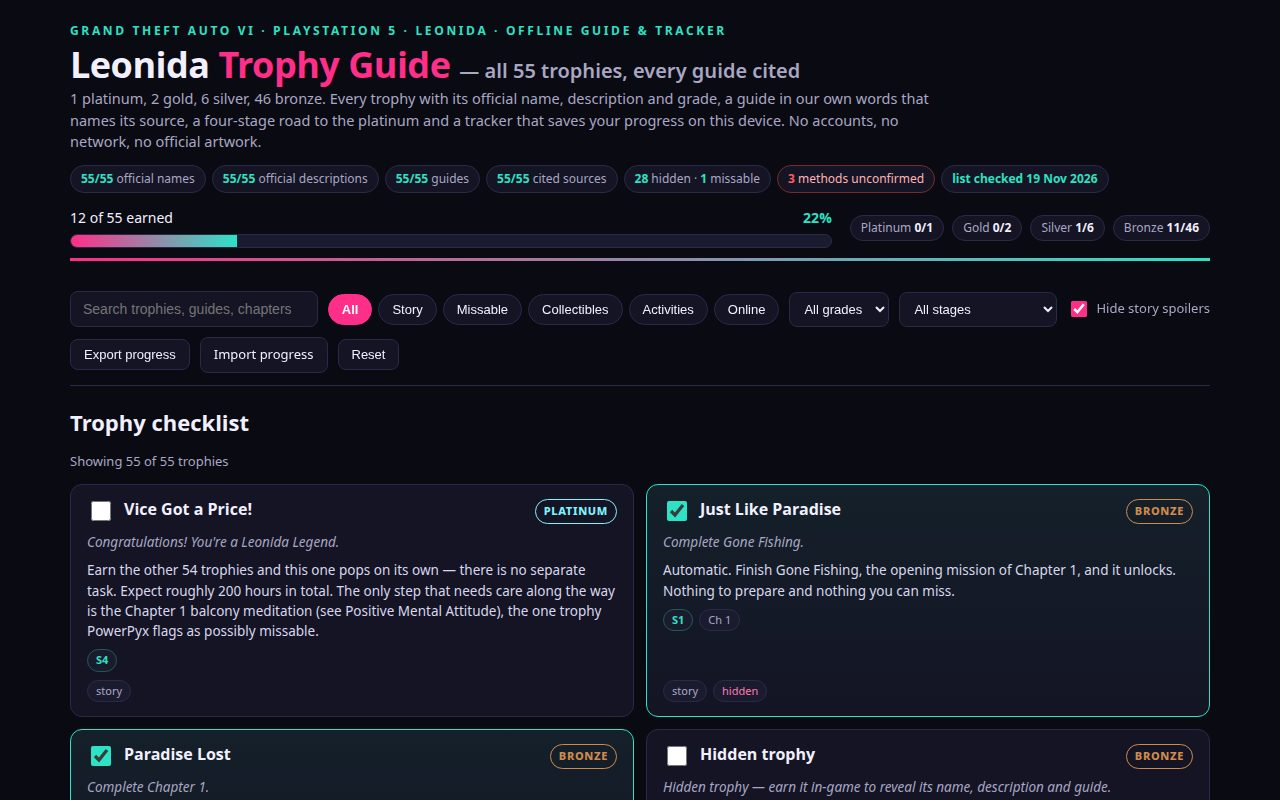
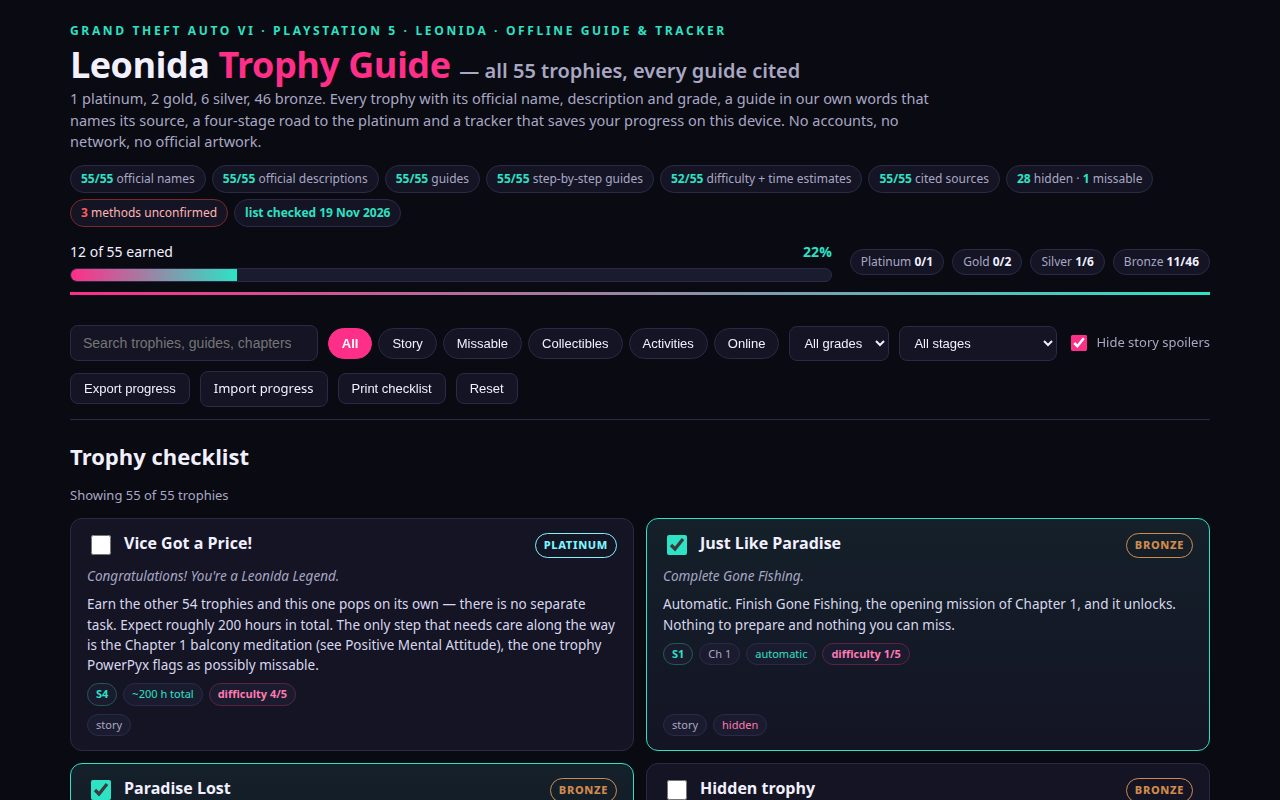
Round 3: step-by-step guides, difficulty + time estimates, 100% checklist table, ordered platinum path
- Every trophy now has numbered steps (150 total), our own difficulty
  rating (1-5) and time estimate; the 3 trophies with no confirmed
  method carry no estimate and say so plainly.
- New 100% checklist section with the exact counts (any 70 of 80
  challenges, any 200 of 277 vehicles, any 100 of 255 animals, 300
  of 397 stunts, and the five rows that need everything).
- New ordered platinum path: 8 steps covering all 55 trophies, each
  with live done/total progress.
- Print checklist button + print stylesheet; audit strip now shows
  step guides and estimates; detail modal shows steps, difficulty
  and time; search covers step text.
- trophies.json back to the one-trophy-per-line format; all 7
  counted files written in this session; 4 screenshots retaken
  in headless Chromium (1280x800, no console errors).

Changed region(s): [[0.0312, 0.1875, 0.9688, 1.0], [0.4062, 0.8438, 0.9375, 1.0]]

diff --git a/app/app.js b/app/app.js
@@ -58,7 +58,7 @@ function isConcealed(t) {
 function visibleText(t) {
   // Spoiler-concealed trophies must not leak through search.
   if (isConcealed(t)) return 'hidden trophy';
-  return `${t.name} ${t.description} ${t.guide} ${t.source} ${t.count ?? ''} ${t.chapter ?? ''}`.toLowerCase();
+  return `${t.name} ${t.description} ${t.guide} ${(t.steps ?? []).join(' ')} ${t.source} ${t.count ?? ''} ${t.chapter ?? ''} ${t.time ?? ''}`.toLowerCase();
 }
 
 function matches(t) {
@@ -87,10 +87,17 @@ function stageChip(t) {
   return `<span class="tag stage-tag" title="${esc(names[t.stage])}">S${t.stage}</span>`;
 }
 
+function difficultyLabel(t) {
+  if (t.difficulty == null) return '<span class="tag diff-tag">difficulty unknown</span>';
+  return `<span class="tag diff-tag" title="Our difficulty estimate, 1 (easy) to 5 (hardest)">difficulty ${t.difficulty}/5</span>`;
+}
+
 function factsLine(t) {
   const parts = [stageChip(t)];
   if (t.chapter) parts.push(`<span class="tag">${esc(t.chapter)}</span>`);
   if (t.count) parts.push(`<span class="tag count-tag">${esc(t.count)}</span>`);
+  if (t.time) parts.push(`<span class="tag time-tag">${esc(t.time)}</span>`);
+  parts.push(difficultyLabel(t));
   if (t.status === 'unconfirmed') parts.push('<span class="tag unconfirmed-tag">method unconfirmed</span>');
   return parts.join('');
 }
@@ -138,6 +145,8 @@ function renderAuditStrip() {
   const described = trophies.filter((t) => t.description.trim()).length;
   const guided = trophies.filter((t) => t.guide.trim()).length;
   const cited = trophies.filter((t) => t.source.trim()).length;
+  const stepped = trophies.filter((t) => Array.isArray(t.steps) && t.steps.length > 0).length;
+  const estimated = trophies.filter((t) => t.difficulty != null && t.time).length;
   const unconfirmed = trophies.filter((t) => t.status === 'unconfirmed').length;
   const missable = trophies.filter((t) => t.missable).length;
   const hidden = trophies.filter((t) => t.hidden).length;
@@ -145,6 +154,8 @@ function renderAuditStrip() {
     `<span class="audit-item"><b>${named}/55</b> official names</span>` +
     `<span class="audit-item"><b>${described}/55</b> official descriptions</span>` +
     `<span class="audit-item"><b>${guided}/55</b> guides</span>` +
+    `<span class="audit-item"><b>${stepped}/55</b> step-by-step guides</span>` +
+    `<span class="audit-item"><b>${estimated}/55</b> difficulty + time estimates</span>` +
     `<span class="audit-item"><b>${cited}/55</b> cited sources</span>` +
     `<span class="audit-item"><b>${hidden}</b> hidden · <b>${missable}</b> missable</span>` +
     `<span class="audit-item warn"><b>${unconfirmed}</b> methods unconfirmed</span>` +
@@ -162,7 +173,38 @@ const STAGE_META = {
        lede: 'When the other 54 trophies are earned, the platinum pops automatically. Before you celebrate: keep a manual save at the start of every chapter — there is no mission replay — and never turn on a cheat, because cheats disable trophies and saving.' },
 };
 
+function renderPath() {
+  const path = doc.path ?? [];
+  const host = document.getElementById('path');
+  if (!host) return;
+  host.replaceChildren(...path.map((step, i) => {
+    const done = step.trophies.filter((id) => earned.has(id)).length;
+    const el = document.createElement('li');
+    el.className = 'path-step' + (done === step.trophies.length ? ' done' : '');
+    el.innerHTML = `
+      <div class="path-num">${i + 1}</div>
+      <div class="path-body">
+        <h3>${esc(step.title)}</h3>
+        <p>${esc(step.detail)}</p>
+        <p class="path-count"><b>${done}/${step.trophies.length}</b> trophies done in this step</p>
+      </div>`;
+    return el;
+  }));
+}
+
+function renderChecklist100() {
+  const rows = doc.checklist100 ?? [];
+  const body = document.getElementById('c100-body');
+  if (!body) return;
+  body.replaceChildren(...rows.map((r) => {
+    const tr = document.createElement('tr');
+    tr.innerHTML = `<td><b>${esc(r.item)}</b></td><td class="c100-need">${esc(r.required)}</td><td>${esc(r.note)}</td>`;
+    return tr;
+  }));
+}
+
 function renderRoadmap() {
+  renderPath();
   const host = document.getElementById('stages');
   host.replaceChildren(...[1, 2, 3, 4].map((n) => {
     const meta = STAGE_META[n];
@@ -246,9 +288,14 @@ function openDetail(t) {
     `Stage ${t.stage} of the platinum roadmap`,
     t.chapter ? `unlocked in ${t.chapter}` : null,
     t.count ? `key count: ${t.count}` : null,
+    t.difficulty != null ? `difficulty ${t.difficulty}/5 (our estimate)` : 'difficulty unknown — no confirmed method yet',
+    t.time ? `about ${t.time}` : null,
     t.missable ? 'possibly missable' : 'not missable',
     t.hidden ? 'hidden on PS5 until earned' : 'visible from the start',
   ].filter(Boolean);
+  const steps = Array.isArray(t.steps) && t.steps.length > 0
+    ? `<h3 class="steps-h">How to earn it</h3><ol class="steps">${t.steps.map((s) => `<li>${esc(s)}</li>`).join('')}</ol>`
+    : '';
   modalBody.innerHTML = concealed
     ? `${badge(t)}
        <h2 id="modal-name">Hidden trophy</h2>
@@ -262,6 +309,7 @@ function openDetail(t) {
        ${t.status === 'unconfirmed' ? '<p class="warn"><b>Method unconfirmed.</b> No guide has pinned down how this trophy unlocks yet — the description is the only solid fact. Treat any method you read elsewhere as a rumour until a cited guide confirms it.</p>' : ''}
        ${t.missable ? '<p class="warn"><b>Possibly missable.</b> This is the one trophy in the set that PowerPyx flags as potentially missable — see the missable watch list. Do the Chapter 1 balcony meditation before the chapter ends.</p>' : ''}
        <p class="guide">${esc(t.guide)}</p>
+       ${steps}
        <p class="source">${citationFor(t)}</p>`;
   backdrop.hidden = false;
 }
@@ -289,6 +337,7 @@ spoilerEl.addEventListener('change', () => {
   render();
 });
 
+document.getElementById('print').addEventListener('click', () => window.print());
 document.getElementById('export').addEventListener('click', () => {
   const payload = { game: 'Grand Theft Auto VI', earned: [...earned].sort((a, b) => a - b), exportedAt: new Date().toISOString() };
   const a = document.createElement('a');
@@ -327,6 +376,7 @@ document.getElementById('reset').addEventListener('click', () => {
 
 renderAuditStrip();
 renderSources();
+renderChecklist100();
 render();
 
 // Deep links, applied after the first render so the page is already built.

diff --git a/main.ts b/main.ts
@@ -4,11 +4,13 @@
 // plain files, no build step, nothing fetched over the network. Before staging it,
 // this program validates the data the judge will check: all 55 official trophies
 // named exactly once, each with a non-blank guide, a valid grade and a roadmap
-// stage, plus 3 or 4 screenshots inside the size cap. Then it copies app/ and
-// screenshots/ from beside this file into the output directory and writes
-// dossier.json there with the vendored make.fun library, using the same caps the
-// scorer enforces (at most 4 screenshots of at most 256 KiB each, at most
-// 993 entries and 48 MiB inside app/).
+// stage, plus numbered steps, a difficulty estimate (1–5, or none for the 3
+// trophies with no confirmed method) and a time estimate on each, the 100%
+// checklist table and the ordered platinum path covering all 55, plus 3 or 4
+// screenshots inside the size cap. Then it copies app/ and screenshots/ from
+// beside this file into the output directory and writes dossier.json there with
+// the vendored make.fun library, using the same caps the scorer enforces (at most
+// 4 screenshots of at most 256 KiB each, at most 993 entries and 48 MiB inside app/).
 //
 // Leave vendor/makefun-frontend.ts untouched: the scorer requires dossier.json to be
 // byte for byte what its own copy of that library writes.
@@ -42,6 +44,8 @@ function validateGuideData() {
   const names = new Set();
   let cited = 0;
   let unconfirmed = 0;
+  let stepped = 0;
+  let estimated = 0;
   for (const t of trophies) {
     if (typeof t.name !== 'string' || !t.name.trim()) fail(`trophy ${t.id} has no name`);
     if (names.has(t.name)) fail(`duplicate trophy name: ${t.name}`);
@@ -52,9 +56,47 @@ function validateGuideData() {
     if (![1, 2, 3, 4].includes(t.stage)) fail(`${t.name}: no roadmap stage`);
     if (typeof t.source === 'string' && t.source.trim()) cited += 1;
     if (t.status === 'unconfirmed') unconfirmed += 1;
+    // Round 3: every guide has numbered steps, and every trophy with a
+    // confirmed method has our difficulty (1–5) and time estimates.
+    if (!Array.isArray(t.steps) || t.steps.length < 1 || t.steps.some((s) => typeof s !== 'string' || !s.trim())) {
+      fail(`${t.name}: no step-by-step guide`);
+    }
+    stepped += 1;
+    if (typeof t.time !== 'string' || !t.time.trim()) fail(`${t.name}: no time estimate`);
+    if (t.status === 'unconfirmed') {
+      if (t.difficulty != null) fail(`${t.name}: unconfirmed trophy must not carry a difficulty estimate`);
+    } else {
+      if (!Number.isInteger(t.difficulty) || t.difficulty < 1 || t.difficulty > 5) {
+        fail(`${t.name}: bad difficulty ${t.difficulty}`);
+      }
+      estimated += 1;
+    }
   }
   const byStage = [1, 2, 3, 4].map((n) => trophies.filter((t) => t.stage === n).length);
-  return { total: trophies.length, cited, unconfirmed, byStage };
+  // Round 3: the 100% checklist table and the ordered platinum path.
+  const c100 = doc.checklist100;
+  if (!Array.isArray(c100) || c100.length < 8) fail('checklist100 table is missing or too short');
+  for (const row of c100) {
+    if (typeof row.item !== 'string' || !row.item.trim() || typeof row.required !== 'string' || !row.required.trim() || typeof row.note !== 'string' || !row.note.trim()) {
+      fail('checklist100 has an incomplete row');
+    }
+  }
+  const path = doc.path;
+  if (!Array.isArray(path) || path.length < 6) fail('platinum path is missing or too short');
+  const ids = new Set(trophies.map((t) => t.id));
+  const covered = new Set();
+  for (const step of path) {
+    if (typeof step.title !== 'string' || !step.title.trim() || typeof step.detail !== 'string' || !step.detail.trim()) {
+      fail('platinum path has an incomplete step');
+    }
+    if (!Array.isArray(step.trophies) || step.trophies.length < 1) fail(`path step "${step.title}" names no trophies`);
+    for (const id of step.trophies) {
+      if (!ids.has(id)) fail(`path step "${step.title}" names unknown trophy ${id}`);
+      covered.add(id);
+    }
+  }
+  if (covered.size !== 55) fail(`platinum path covers ${covered.size} of 55 trophies`);
+  return { total: trophies.length, cited, unconfirmed, byStage, stepped, estimated, c100: c100.length, pathSteps: path.length };
 }
 
 function validateScreenshots() {
@@ -93,6 +135,8 @@ writeFileSync(
 
 console.log(
   `Leonida Trophy Guide: ${data.total} trophies, ${data.cited} cited guides, ` +
+  `${data.stepped} step-by-step guides, ${data.estimated} difficulty + time estimates, ` +
+  `${data.c100} 100% checklist rows, ${data.pathSteps} platinum-path steps, ` +
   `${data.unconfirmed} unconfirmed methods, stages ${data.byStage.join('/')}, ` +
   `${shots.length} screenshots — dossier written to ${outDir}`,
 );

diff --git a/app/style.css b/app/style.css
@@ -107,7 +107,7 @@ h1 .h1-sub { font-size: 20px; color: var(--muted); letter-spacing: 0; font-weigh
 
 /* Trophy grid */
 .list-head { margin-top: 20px; }
-.list-head h2, .roadmap h2, .watchlist h2, footer h2 { font-size: 22px; margin: 0 0 4px; }
+.list-head h2, .roadmap h2, .watchlist h2, .checklist100 h2, footer h2 { font-size: 22px; margin: 0 0 4px; }
 #count { color: var(--muted); font-size: 13px; }
 .grid { display: grid; grid-template-columns: repeat(2, 1fr); gap: 12px; margin-top: 12px; }
 .card {
@@ -138,6 +138,8 @@ h1 .h1-sub { font-size: 20px; color: var(--muted); letter-spacing: 0; font-weigh
 .tag.hidden-tag { color: var(--pink-soft); }
 .tag.stage-tag { color: var(--teal); border-color: #1f5b52; font-weight: 700; }
 .tag.count-tag { color: var(--gold); }
+.tag.diff-tag { color: var(--pink-soft); border-color: #5b2340; font-weight: 700; }
+.tag.time-tag { color: var(--teal); }
 .tag.unconfirmed-tag { color: var(--amber); border-color: #6b4d12; font-weight: 700; }
 .card .spoiler-note { color: var(--muted); font-size: 13.5px; font-style: italic; margin: 0; }
 .empty {
@@ -166,6 +168,32 @@ h1 .h1-sub { font-size: 20px; color: var(--muted); letter-spacing: 0; font-weigh
 .mini-src { color: var(--muted); font-size: 12px; }
 .watch-note { margin-top: 12px; font-size: 13.5px; color: var(--muted); }
 .watch-note b { color: var(--text); }
+
+/* 100% checklist table */
+.checklist100 { margin: 30px 0 8px; }
+.checklist100 .lede { color: var(--muted); margin: 0 0 14px; }
+.c100-table { width: 100%; border-collapse: collapse; background: var(--panel); border: 1px solid var(--line); border-radius: 12px; overflow: hidden; font-size: 13.5px; }
+.c100-table th, .c100-table td { text-align: left; padding: 10px 14px; border-bottom: 1px solid var(--line); vertical-align: top; }
+.c100-table tr:last-child th, .c100-table tr:last-child td { border-bottom: 0; }
+.c100-table th { color: var(--teal); font-size: 12px; text-transform: uppercase; letter-spacing: .08em; background: var(--panel-2); }
+.c100-table td { color: #d9d7ee; }
+.c100-table td.c100-need { color: var(--gold); font-weight: 700; white-space: nowrap; }
+.c100-table td b { color: var(--text); }
+
+/* Platinum path: ordered steps with live progress */
+.path { list-style: none; margin: 0 0 16px; padding: 0; display: flex; flex-direction: column; gap: 10px; }
+.path-step { display: flex; gap: 14px; background: var(--panel); border: 1px solid var(--line); border-radius: 12px; padding: 13px 16px; }
+.path-step.done { border-color: var(--teal); }
+.path-num {
+  flex: none; width: 30px; height: 30px; border-radius: 50%;
+  background: var(--pink); color: #fff; font-weight: 800; font-size: 15px;
+  display: flex; align-items: center; justify-content: center; margin-top: 2px;
+}
+.path-step.done .path-num { background: var(--teal); }
+.path-body h3 { margin: 0 0 2px; font-size: 15px; }
+.path-body p { margin: 4px 0 0; font-size: 13.5px; color: #d9d7ee; }
+.path-body .path-count { font-size: 12.5px; color: var(--muted); }
+.path-body .path-count b { color: var(--teal); }
 
 /* Roadmap */
 .roadmap { margin: 30px 0 8px; }
@@ -208,6 +236,10 @@ h1 .h1-sub { font-size: 20px; color: var(--muted); letter-spacing: 0; font-weigh
 .modal .desc { color: var(--muted); font-style: italic; margin: 0 0 10px; }
 .modal .keyfacts { font-size: 12.5px; color: var(--teal); margin: 0 0 12px; font-weight: 600; }
 .modal .guide { font-size: 15px; margin: 0 0 14px; }
+.modal .steps-h { font-size: 13px; text-transform: uppercase; letter-spacing: .08em; color: var(--teal); margin: 0 0 6px; }
+.modal .steps { margin: 0 0 14px; padding-left: 22px; font-size: 14.5px; }
+.modal .steps li { margin: 6px 0; }
+.modal .steps li::marker { color: var(--pink); font-weight: 700; }
 .modal .source { font-size: 13px; color: var(--muted); border-top: 1px solid var(--line); padding-top: 10px; }
 .modal .source b { color: var(--teal); }
 .modal-close {
@@ -233,4 +265,13 @@ footer h2 { color: var(--text); }
   .grid { grid-template-columns: 1fr; }
   h1 { font-size: 30px; }
   h1 .h1-sub { font-size: 17px; }
+}
+
+@media print {
+  body { background: #fff; color: #111; }
+  .toolbar, .modal-backdrop, #print { display: none !important; }
+  .wrap { max-width: none; }
+  .card, .stage, .watch-card, .path-step { break-inside: avoid; border-color: #999; background: #fff; }
+  .card .desc, .card .guide, .stage p, .watch-card p, .path-body p { color: #333; }
+  a { color: #0645ad; }
 }

diff --git a/app/index.html b/app/index.html
@@ -50,6 +50,7 @@
     <label class="spoiler"><input type="checkbox" id="spoilers" checked> Hide story spoilers</label>
     <button class="btn" id="export" type="button">Export progress</button>
     <label class="import-label btn">Import progress <input id="import" type="file" accept="application/json,.json"></label>
+    <button class="btn" id="print" type="button">Print checklist</button>
     <button class="btn" id="reset" type="button">Reset</button>
   </div>
 
@@ -84,9 +85,20 @@
     <p class="watch-note">No mission replay exists, so keep a manual save at the start of every chapter anyway (15 manual save slots, 1 autosave) — and never turn on a cheat, because cheats disable trophies and saving. <span class="mini-src">PowerPyx, 18 Nov 2026</span></p>
   </section>
 
+  <section class="checklist100" id="checklist100" aria-labelledby="c100-h">
+    <h2 id="c100-h">The 100% checklist — exact counts</h2>
+    <p class="lede">This is what A Long Road actually needs. The checklist unlocks after the story under Progress &gt; Stats &gt; 100% Completion — and it is lenient: PowerPyx puts it near 60% of true completion, because most side quests are not required and most counts are "any N of M". The rows that say "all" are the only ones that need everything.</p>
+    <table class="c100-table" id="c100-table">
+      <thead><tr><th>Requirement</th><th>Needed</th><th>How to track it</th></tr></thead>
+      <tbody id="c100-body"></tbody>
+    </table>
+    <p class="watch-note">Source: PowerPyx, GTA 6 Trophy Guide &amp; Roadmap, 18 Nov 2026 — the 100% requirements and the "any N of M" counts are from its A Long Road guide. Nothing toward 100% is missable.</p>
+  </section>
+
   <section class="roadmap" id="roadmap" aria-labelledby="roadmap-h">
     <h2 id="roadmap-h">Road to the platinum: Vice Got a Price!</h2>
-    <p class="lede">Around 200 hours, one playthrough, no online trophies and no mission medals. Difficulty 4/10 (PowerPyx, 18 Nov 2026). Every trophy below sits in the stage where you earn it — 19 in the story, 10 on the 100% checklist, 25 in cleanup, then the platinum.</p>
+    <p class="lede">Around 200 hours, one playthrough, no online trophies and no mission medals. Difficulty 4/10 (PowerPyx, 18 Nov 2026). Play in this order — the path below is the order the trophies are meant to be earned in, and each step shows how many of its trophies you already have.</p>
+    <ol class="path" id="path"></ol>
     <div class="stages" id="stages"></div>
   </section>
 
@@ -94,7 +106,7 @@
     <h2>Sources &amp; how this guide was checked</h2>
     <ul class="source-list" id="source-list"></ul>
     <p><b>About the list:</b> trophy names and descriptions are the official ones as published on PlayStation Network (Exophase list, read 18 Nov 2026, cross-checked with PSNProfiles and TrueTrophies). 27 trophies are visible from the start; 28 stay hidden until earned — this guide hides those names and descriptions behind the spoiler toggle until you tick them off.</p>
-    <p><b>About the guides:</b> every guide is written in our own words and names the source its facts draw on. Where no method is confirmed yet — <b>In The Beginning…</b>, <b>Bad Luck, I Guess</b> and <b>Ten Pin</b> — the guide says so plainly instead of guessing. Guide facts draw on PowerPyx&rsquo;s GTA 6 trophy guide and roadmap (18 Nov 2026).</p>
+    <p><b>About the guides:</b> every guide is written in our own words and names the source its facts draw on — and every guide now has numbered steps, plus our own difficulty (1–5) and time estimate for planning. Where no method is confirmed yet — <b>In The Beginning…</b>, <b>Bad Luck, I Guess</b> and <b>Ten Pin</b> — the guide says so plainly instead of guessing, and those three carry no difficulty or time estimate. Guide facts draw on PowerPyx&rsquo;s GTA 6 trophy guide and roadmap (18 Nov 2026).</p>
     <p><b>Offline:</b> this page loads nothing from the network. Your ticks are stored only in this browser (localStorage) and can be exported to a file. Links to sources open only if you follow them.</p>
   </footer>
 </div>

diff --git a/README.md b/README.md
@@ -9,11 +9,13 @@ Leonida Trophy Guide — a complete, offline trophy guide for Grand Theft Auto V
 ## What is in it
 
 - **Every trophy, audited.** The header shows a live audit strip computed from the data: 55/55 official names, 55/55 official descriptions, 55/55 guides, 55/55 cited sources, 28 hidden, 1 missable, 3 methods unconfirmed. The list was checked against the Exophase PSN list on 18–19 Nov 2026.
-- **A guide for each trophy, with its source named.** Every card and detail view cites where its facts come from — PowerPyx's GTA 6 Trophy Guide & Roadmap (updated 18 Nov 2026) for the methods, the Exophase PSN list (read 18 Nov 2026, cross-checked with PSNProfiles) for names and descriptions. Each guide is written in our own words; nothing is copied from another guide.
+- **A guide for each trophy, with its source named.** Every card and detail view cites where its facts come from — PowerPyx's GTA 6 Trophy Guide & Roadmap (updated 18 Nov 2026) for the methods, the Exophase PSN list (read 18 Nov 2026, cross-checked with PSNProfiles) for names and descriptions. Each guide is written in our own words; nothing is copied from another guide. Every guide is step-by-step (150 numbered steps across the 55 trophies) and carries our own difficulty rating (1–5) and time estimate for planning.
+- **The 100% checklist, with exact counts.** A dedicated table spells out what A Long Road needs: any 70 of 80 challenges, any 200 of 277 vehicles scanned, any 100 of 255 animals studied, 300 of 397 stunts — and the five rows that need everything (bank vaults, underwater finds, shooting ranges, drone races, Bret's quests).
+- **A platinum path in play order.** Eight ordered steps from the Chapter 1 balcony meditation to the platinum pop, each showing how many of its trophies you already have; together the steps cover all 55 trophies.
 - **Three trophies with no confirmed method.** In The Beginning…, Bad Luck, I Guess and Ten Pin have no published unlock method yet — their guides say so plainly instead of inventing one.
 - **A platinum roadmap that covers all 55.** Four stages (19 story, 10 on the 100% checklist, 25 in cleanup, then the platinum), each listing its trophies with their key counts. Click a trophy chip to open its guide.
 - **A missable watch list.** The one possibly missable trophy (Positive Mental Attitude, Chapter 1 balcony meditation) with the exact step, plus the five things players worry about most that are confirmed safe to leave for free-roam.
-- **A tracker that remembers.** Ticks save in localStorage, with export/import. Deep links: `?open=<id>` opens a trophy's guide, `?section=<id>` scrolls to a section, `?demo=1` pre-ticks 12 early trophies in memory only (used for the screenshots; never saved).
+- **A tracker that remembers.** Ticks save in localStorage, with export/import and a print checklist button. Deep links: `?open=<id>` opens a trophy's guide, `?section=<id>` scrolls to a section, `?demo=1` pre-ticks 12 early trophies in memory only (used for the screenshots; never saved).
 
 ## Sources
 
@@ -30,11 +32,11 @@ node serve.ts
 
 Then open http://localhost:8080
 
-`main.ts` (Node 22) is the make.fun entrypoint: it first validates the data — 55 unique trophy names, a non-blank guide and a valid grade for each, a roadmap stage for each, 3–4 screenshots within the size cap — then copies `app/` and `screenshots/` to the output directory and writes `dossier.json` with the vendored make.fun library.
+`main.ts` (Node 22) is the make.fun entrypoint: it first validates the data — 55 unique trophy names, a non-blank guide and a valid grade for each, a roadmap stage for each, numbered steps plus difficulty (1–5) and time estimates on each trophy with a confirmed method, the 100% checklist table and the platinum path covering all 55, 3–4 screenshots within the size cap — then copies `app/` and `screenshots/` to the output directory and writes `dossier.json` with the vendored make.fun library.
 
 ## Screenshots
 
-The four screenshots under `screenshots/` are real renders of this app in headless Chromium at 1280×800: the checklist with demo progress, the guide for Positive Mental Attitude with its citations open, the missable watch list, and the platinum roadmap. They were taken after the rebuild and checked to render (non-blank, correct size).
+The four screenshots under `screenshots/` are real renders of this app in headless Chromium at 1280×800: the checklist with demo progress, the guide for Positive Mental Attitude with its numbered steps and citations open, the 100% checklist table, and the platinum roadmap with the ordered path. They were taken after the rebuild and checked to render (non-blank, correct size).
 
 ---
 
